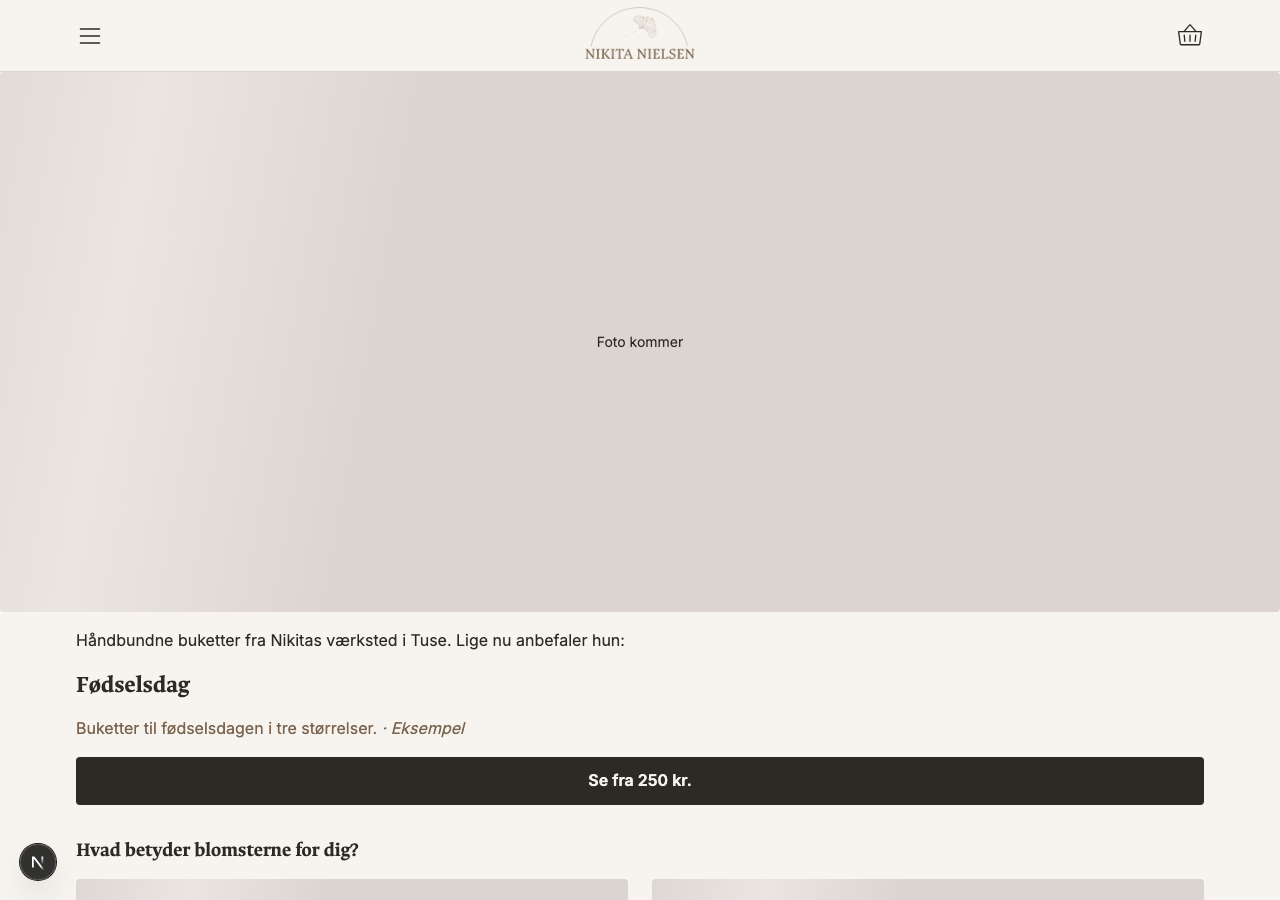
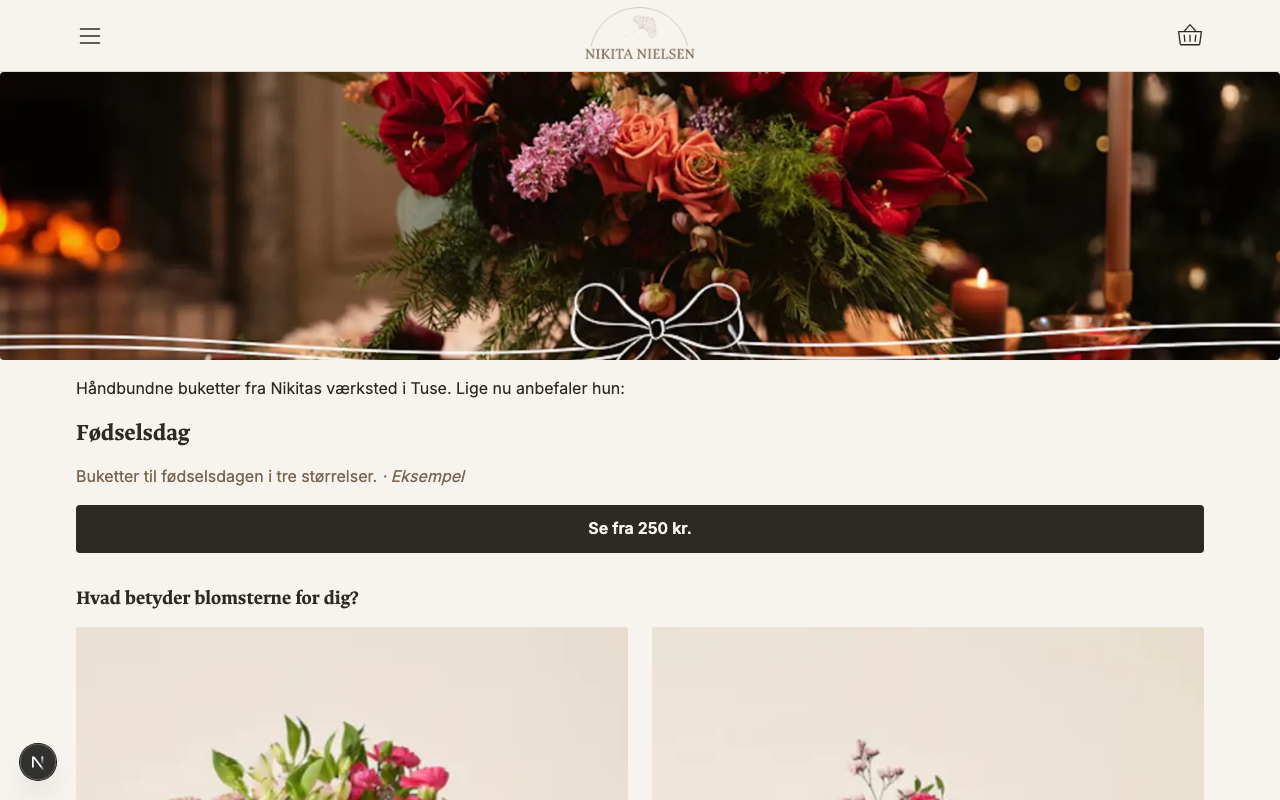
Lower hero band; Besøg Nikita: smaller portrait, centred text from tablet up (DD-31, DD-32)

diff --git a/frontend/src/app/page.module.css b/frontend/src/app/page.module.css
@@ -1,9 +1,10 @@
 /* The hero stays an edge-to-edge band. On the phone it is 6:5; from tablet
    up the same band is lower, so the intro line and the recommended bouquet
-   show on the first screen (DD-31). The photo fills it and is cropped. */
+   show on the first screen (DD-31, lowered again 27 Nov: Felix found 60 %
+   "comically big"). The photo fills it and is cropped. */
 @media (min-width: 600px) {
   .hero > * {
-    height: min(60svh, 560px);
+    height: min(36svh, 360px);
   }
 }
 
@@ -96,4 +97,31 @@
   margin-top: auto;
   color: var(--color-text);
   text-decoration: none;
+}
+
+/* "Besøg Nikita" from tablet up (Felix: "too empty"): the portrait stops at
+   4 columns, the text sits centred beside it with the address right under
+   it, one step larger on the brand's type scale. The phone is unchanged. */
+@media (min-width: 600px) {
+  .visit {
+    align-items: center;
+  }
+
+  .visitPhoto {
+    flex: 0 0 min(45%, 360px);
+  }
+
+  .visitText {
+    gap: var(--space-2);
+    max-width: var(--measure);
+    font-size: var(--text-base);
+  }
+
+  .visit h2 {
+    font-size: var(--text-xl);
+  }
+
+  .address {
+    margin-top: 0;
+  }
 }

diff --git a/docs/design-decisions.md b/docs/design-decisions.md
@@ -216,8 +216,14 @@ Test: in the usability test, one person on a laptop: is anything on the first sc
 
 ### DD-31 Tablet and desktop keep the live layout; only the hero is lower
 Date: 2026-11-27 · Principles: P1, DD-22 (the intro line leads into the recommendation) · Evidence grade: C (opinion: Felix)
-Decision: Tablet and desktop keep the layout the site already had: the phone's order in the 1128 px grid of DD-28. The only change is the front-page hero: it stays an edge-to-edge band, but from 600 px up it is at most 60 % of the screen height (560 px at most) instead of 6:5, with the photo filling and cropped. On a 1280 × 900 laptop it is 540 px instead of 1,067 px, so the intro line, the recommended bouquet and its button show on the first screen. The phone is unchanged. Felix's words: "tidy up the hero so it's not as big but same format".
+Decision: Tablet and desktop keep the layout the site already had: the phone's order in the 1128 px grid of DD-28. The only change is the front-page hero: it stays an edge-to-edge band, but from 600 px up it is at most 36 % of the screen height (360 px at most; first built at 60 % / 560 px, which Felix found "comically big") instead of 6:5, with the photo filling and cropped. On a 1280 × 800 laptop it is 288 px instead of 1,067 px, so the intro line, the recommended bouquet and its button show on the first screen. The phone is unchanged. Felix's words: "tidy up the hero so it's not as big but same format".
 Rejected: DD-30's 744 px column, built and reverted the same day (Felix: "it's worse now"; images kept as `docs/design/implemented/2026-11-27-column-rejected-*.png`); DD-29's two columns (Figma section marked "AFVIST").
 Misread, recorded honestly: when Felix said he liked the live design, Claude took it as an invitation to choose how much of it to keep and offered a narrower column as the recommended option; what he wanted was the live layout as it was, with only the hero tidied.
 Known: on desktop the occasion photo, the cards and the checkout fields stay as wide as the grid (the occasion photo is taller than a laptop screen). Left as Felix's live design; the laptop session in the usability test will show whether it matters.
 Test: in the usability test on a laptop: is the recommendation on the front page noticed without scrolling?
+
+### DD-32 "Besøg Nikita" from tablet up: smaller portrait, text centred beside it
+Date: 2026-11-27 · Principles: P11 (less empty space, fewer competing areas), brand type scale · Evidence grade: C (opinion: Felix found the section "a bit too empty")
+Decision: From 600 px up the portrait stops at 4 columns (360 px, keeping its shape), the text is vertically centred beside it with the address directly under the text instead of pushed to the bottom, and the text is one step larger on the brand scale (body 16 px, heading 24 px), its lines kept to about 70 characters. The phone keeps the original layout.
+Rejected: the live version (507 × 598 px portrait with three lines of text and the address in the bottom corner; image `docs/design/implemented/2026-11-27-visit-1280-rejected-too-empty.png`); the two-column Figma version with a landscape crop (DD-29, rejected with the rest of those frames).
+Test: in the usability test on a laptop, does anyone mention the address or the shop visit when asked what they remember from the front page?

diff --git a/docs/process/2026-11-19-storefront.md b/docs/process/2026-11-19-storefront.md
@@ -89,3 +89,4 @@ Felix's education is design-oriented, so every key layout choice is his (CLAUDE.
 - **Stand-in photos and links back from the cart (27 Nov).** Felix supplied five pictures as placeholders until content is made at the end. Four look like a competitor's photos, so they are listed in `docs/design/stand-ins.md` as never to be shown publicly (a Vercel preview link counts), and live in one file (`lib/stand-ins.ts`) that only fills in where the catalogue has no photo. The three bouquet photos rotate over the five occasions so the grid is not one picture; the cart remembers each line's photo when it is added, so the owner's photos will show there too later.
   - Felix asked for links back from the cart "and these small functionalities". Added, each from a proven pattern rather than new design: the cart line's photo and name lead to the bouquet's page (Baymard: cart items link to their product page); "Se flere buketter" under the cart's button (continue-shopping link); "Tilbage til kurven" at the top of checkout, with the form kept as the customer types rather than only when paying, so going back loses nothing. The ‹ character is missing from the brand fonts (found 23 Nov), so the back link uses Phosphor Light's caret like the other icons.
   - Checked at 390 px: all six photos on the front page load; the cart thumbnail loads; tapping "Kærlighed" in the cart opens its page; a name typed in checkout survives the trip back to the cart.
+- **Hero lower, "Besøg Nikita" tidied (27 Nov, DD-31 amended, DD-32).** Felix: the hero was "still comically big" and the Nikita section "a bit too empty". Measured first at 1280 × 800: hero 480 px; the section a 507 × 598 px portrait beside three lines of text, address in the bottom corner. Changed only from tablet up: the hero band to at most 36 % of the screen (288 px on that laptop), the portrait to 4 columns with the text centred beside it and one step larger. The phone is unchanged (hero 325 px, section as before). Not pushed: Felix holds this branch for now, and decided against hiding the stand-in photos from previews ("no circumvention needed").
